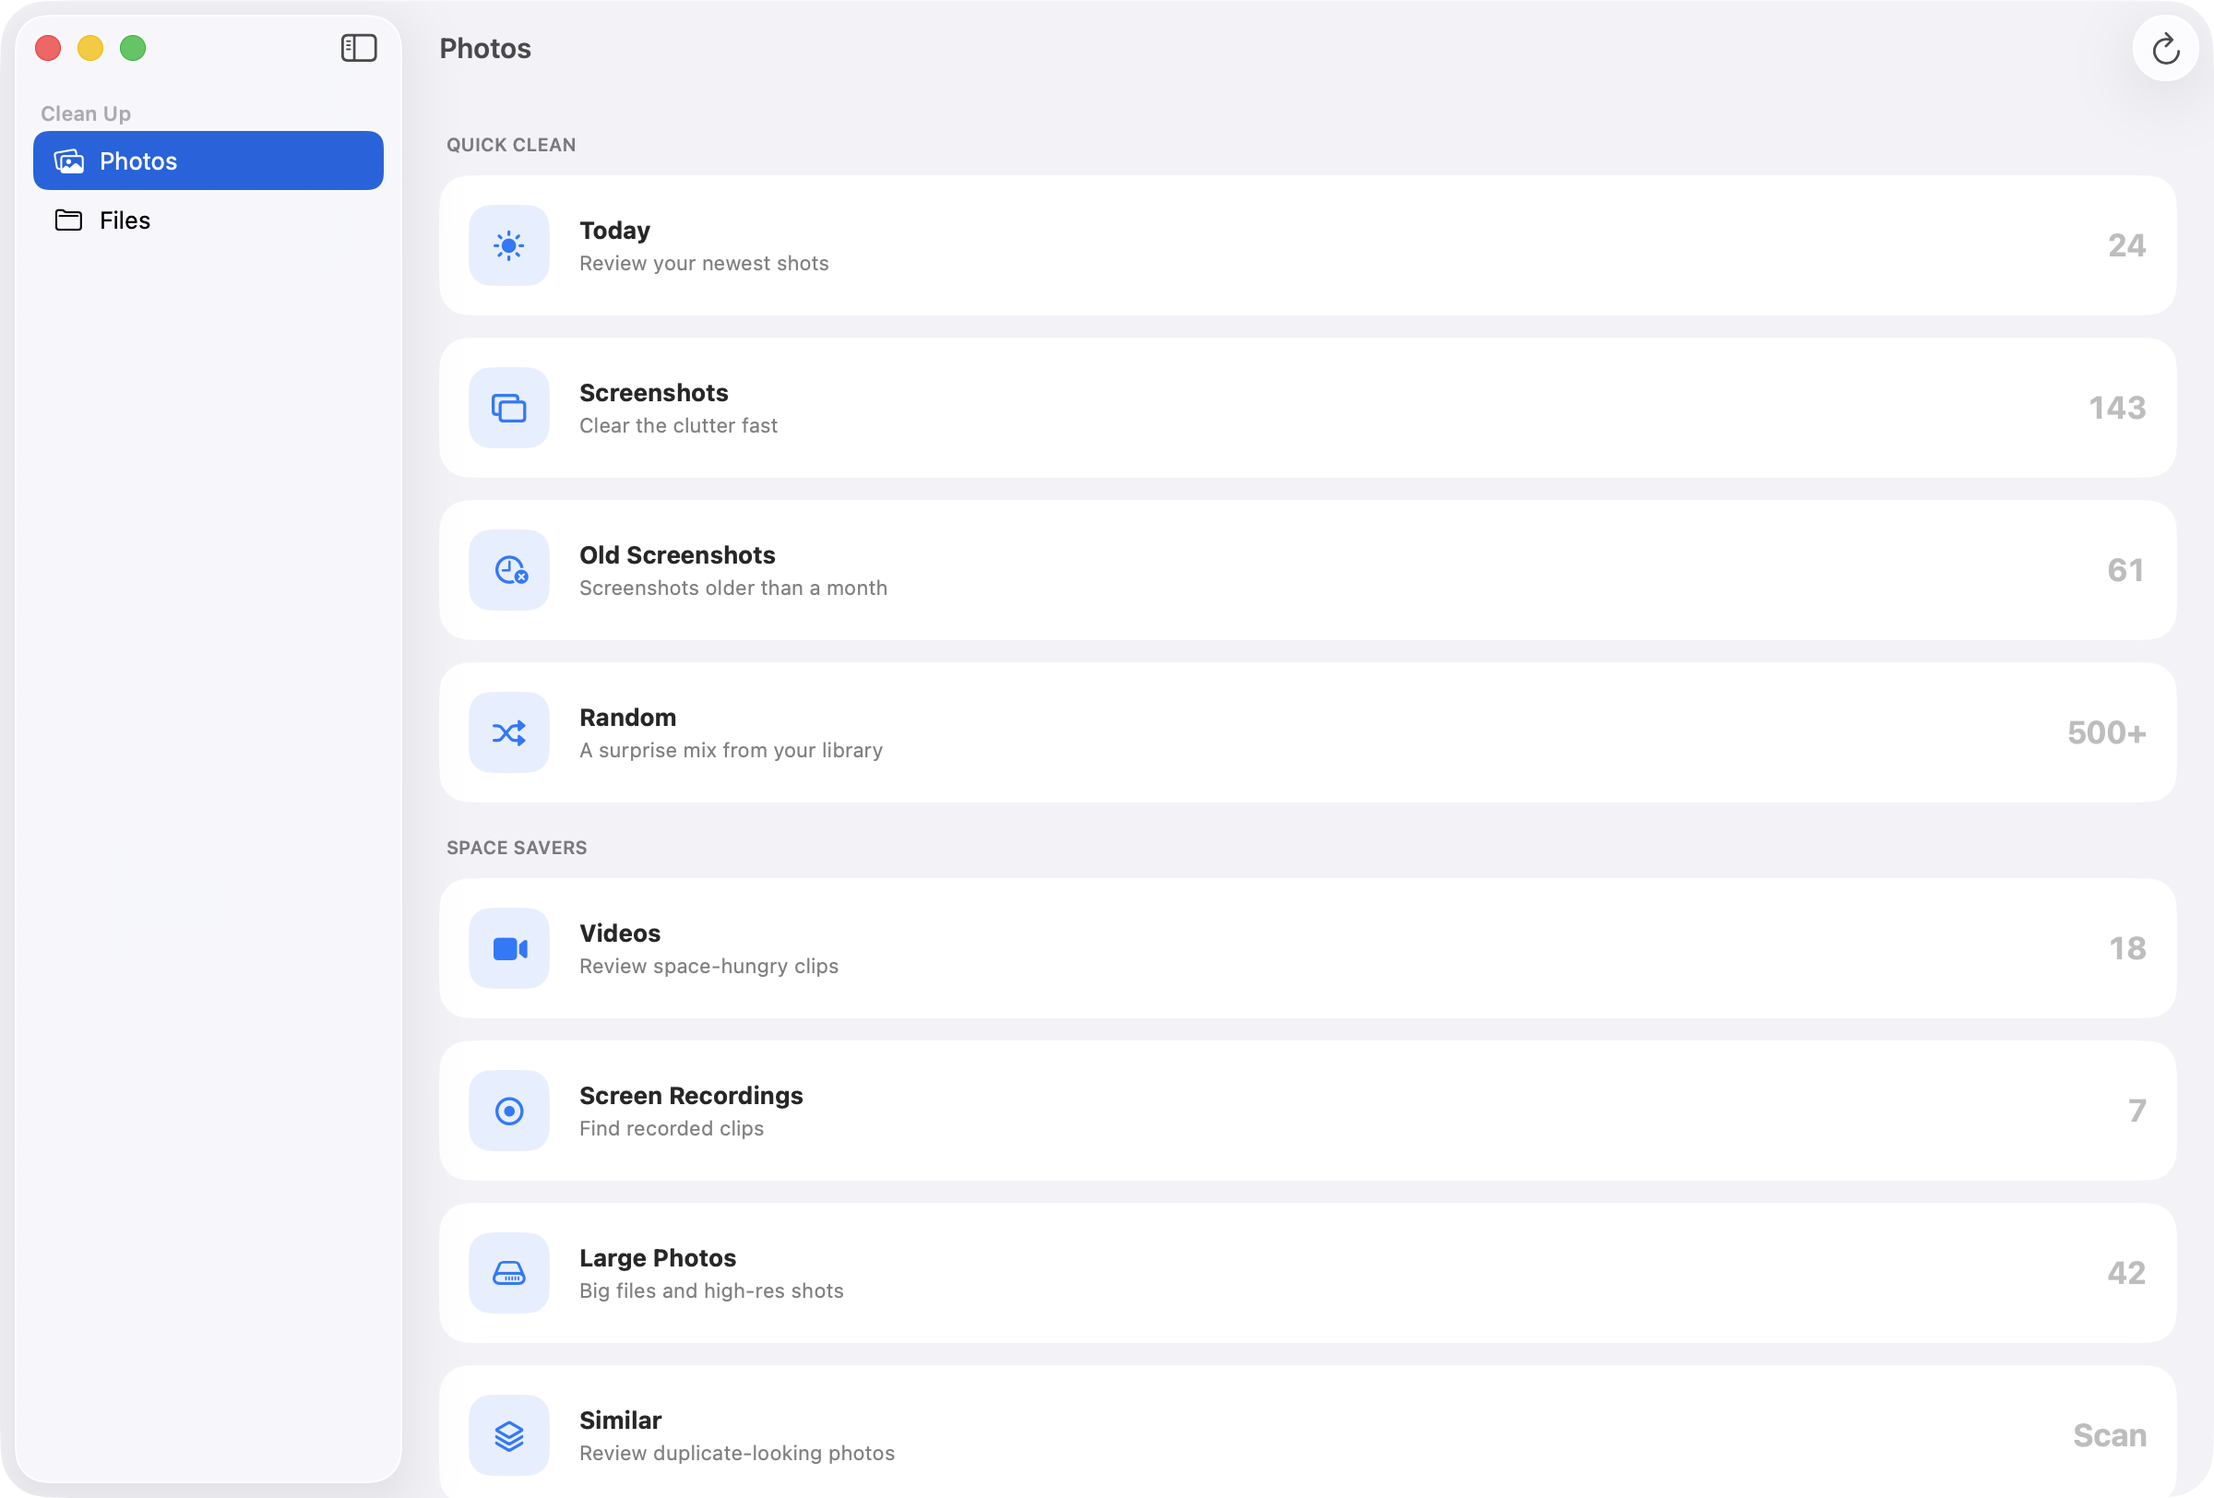
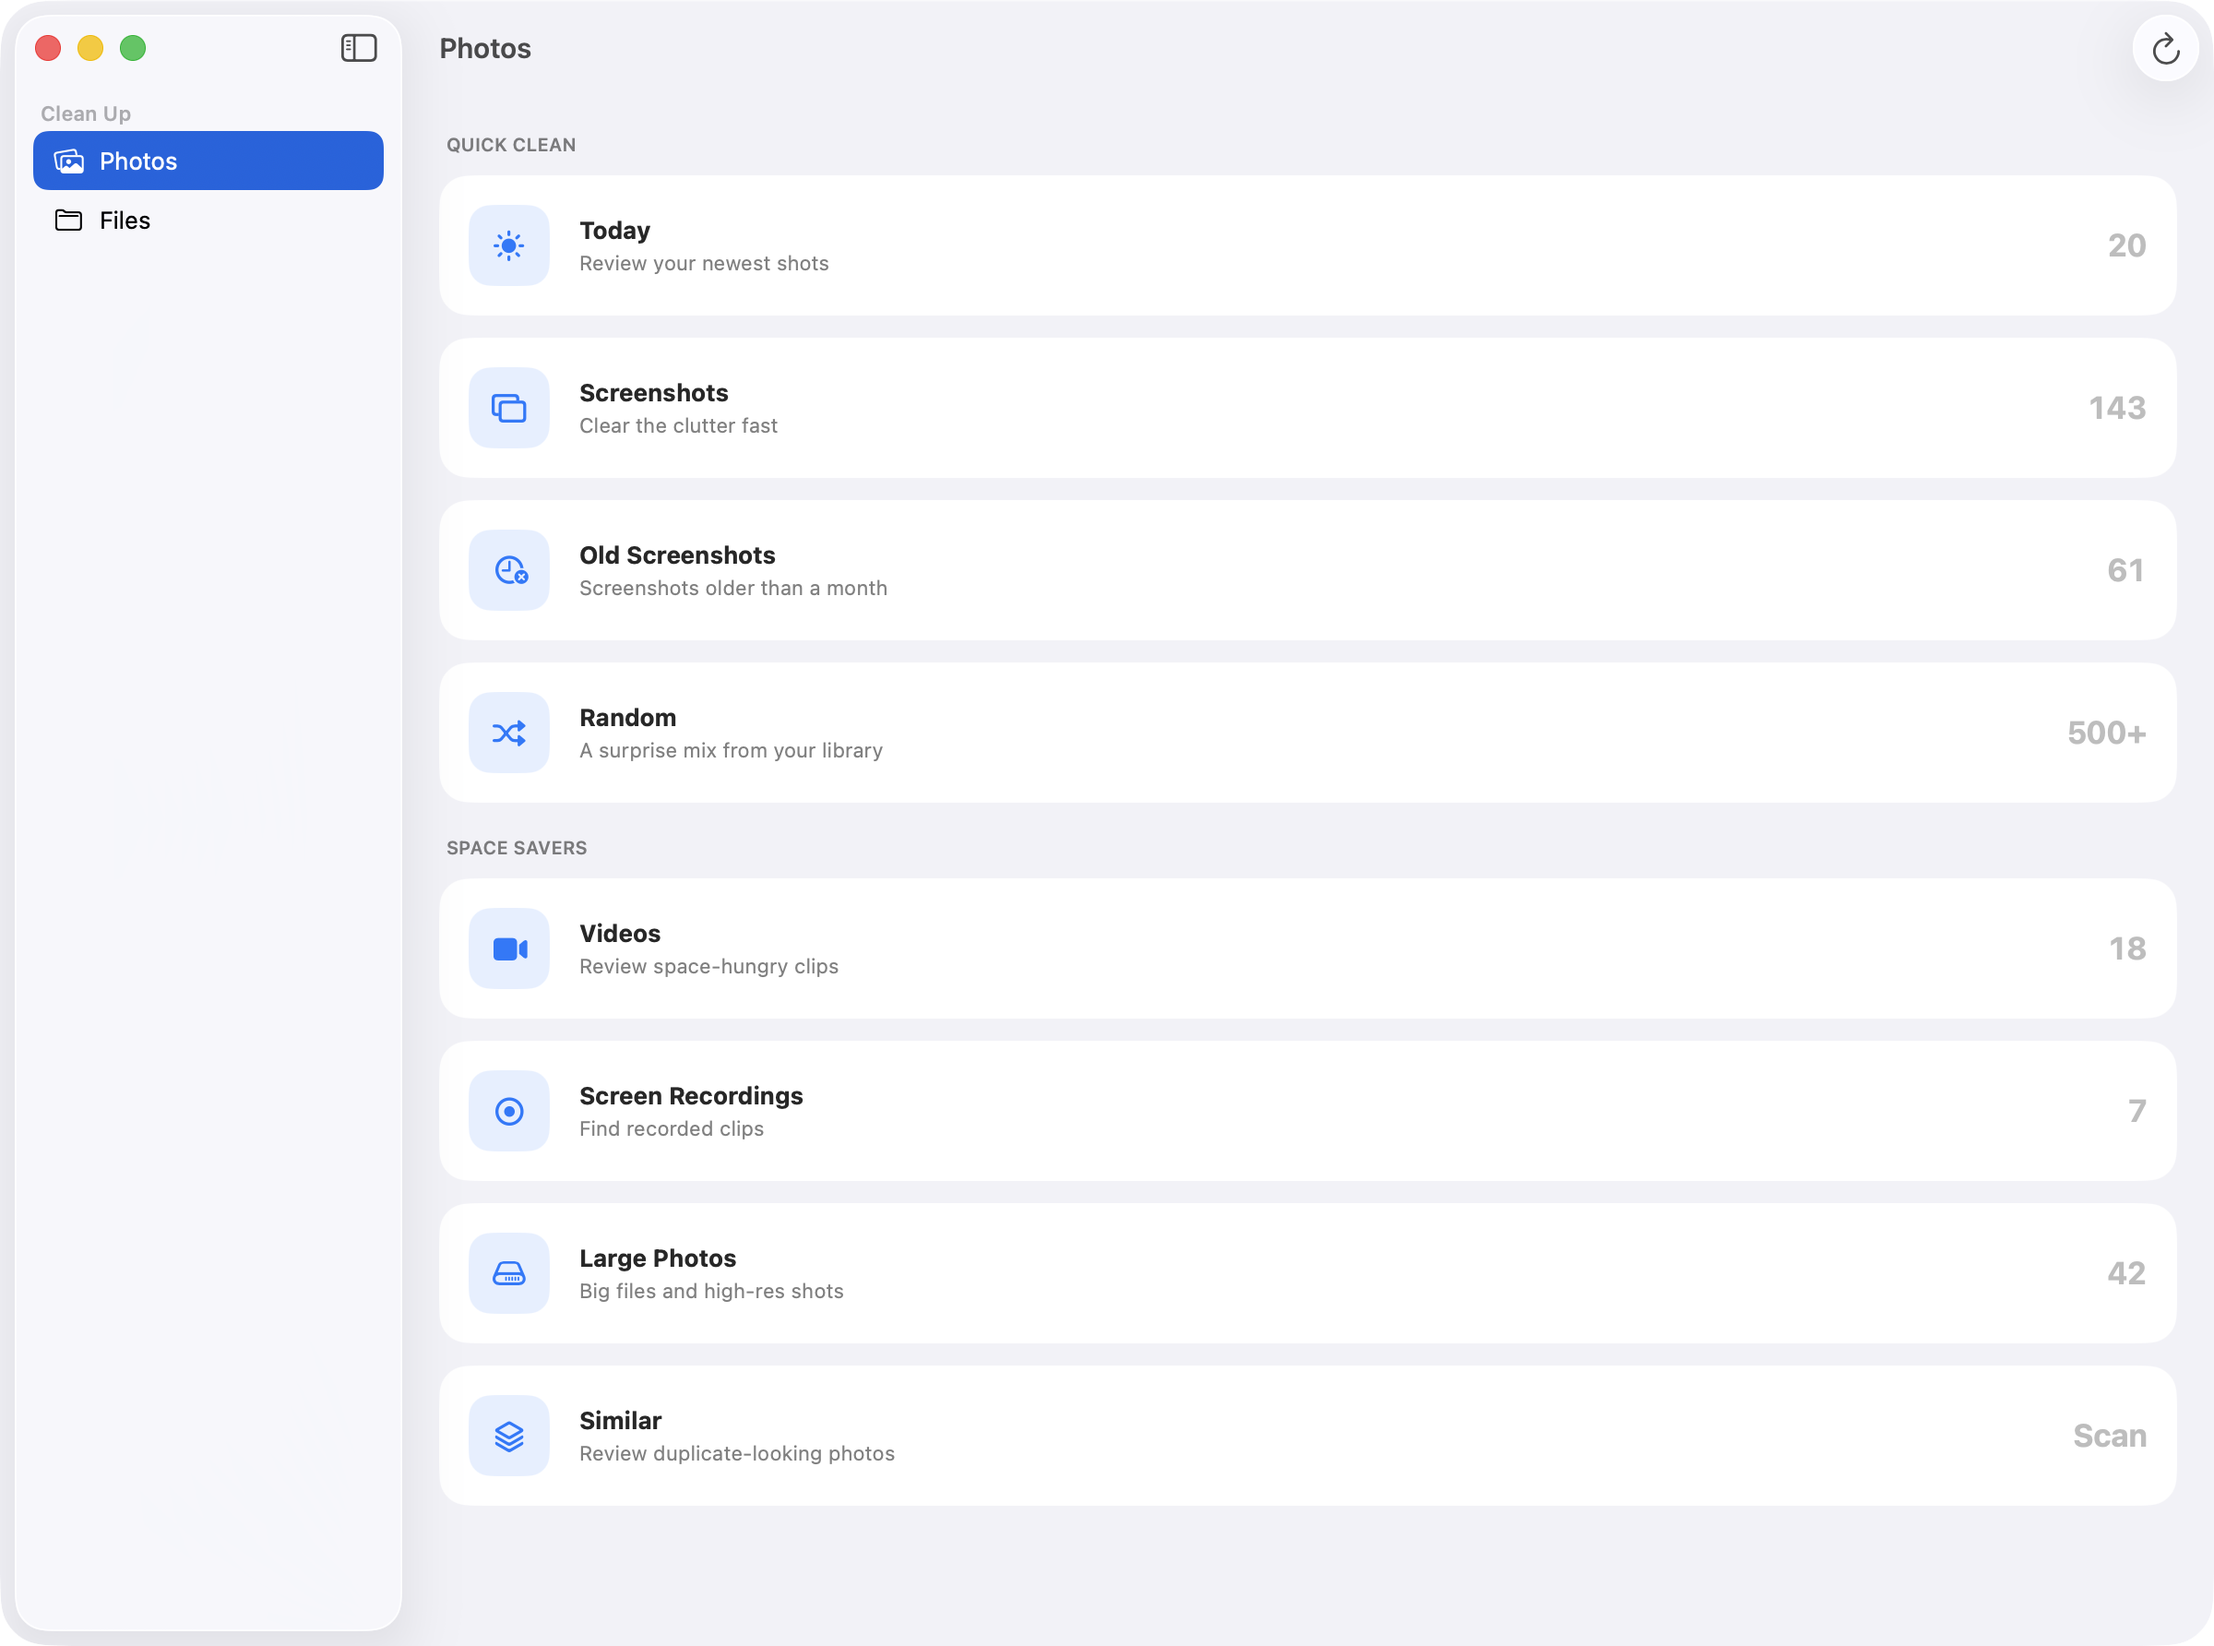
Fix Mac App Store screenshots: uncropped home hero + consistent counts
Trim the demo home to its two primary sections and raise the shared demo
window height so the home window shows all 8 categories with a clean
bottom edge instead of clipping the last row. Align the demo Today count
(20) with the review screen's "7 of 20". Re-captured all four Mac shots.
(DEBUG-only demo view; does not affect the shipping build.)

diff --git a/SnipSnaps/Views/Marketing/MacScreenshotDemoView.swift b/SnipSnaps/Views/Marketing/MacScreenshotDemoView.swift
@@ -49,9 +49,11 @@ struct MacScreenshotDemoView: View {
     // doesn't inherit the machine's Dark Mode. Set SNIPSNAPS_SCREENSHOT_APPEARANCE
     // to `dark` to shoot Dark-Mode shots; defaults to Light.
     .preferredColorScheme(forcedColorScheme)
-    // Pin the window to a fixed 16:10-ish size so every capture is identical and
-    // composites cleanly onto the 2880×1800 canvas.
-    .frame(width: 1200, height: 760)
+    // Pin the window to a fixed size so every capture is identical and composites
+    // cleanly onto the 2880×1800 canvas. Height fits the home hero's two sections
+    // (8 category rows) with a clean bottom margin; the photo-review and files
+    // screens center/top their content, so the extra height reads as breathing room.
+    .frame(width: 1200, height: 840)
     // Make the window key/active so the capture shows colored traffic lights and
     // a crisp title bar instead of the dimmed inactive-window chrome.
     .onAppear { NSApp.activate(ignoringOtherApps: true) }
@@ -85,7 +87,7 @@ private struct DemoHomeSection: Identifiable {
 private struct DemoPhotosHomeScreen: View {
   private let sections: [DemoHomeSection] = [
     DemoHomeSection(title: "Quick Clean", modes: [
-      DemoHomeMode(mode: .today, count: "24"),
+      DemoHomeMode(mode: .today, count: "20"),
       DemoHomeMode(mode: .screenshots, count: "143"),
       DemoHomeMode(mode: .oldScreenshots, count: "61"),
       DemoHomeMode(mode: .random, count: "500+"),
@@ -96,12 +98,9 @@ private struct DemoPhotosHomeScreen: View {
       DemoHomeMode(mode: .largePhotos, count: "42"),
       DemoHomeMode(mode: .similar, count: "Scan"),
     ]),
-    DemoHomeSection(title: "Library Finds", modes: [
-      DemoHomeMode(mode: .onThisDay, count: "88"),
-      DemoHomeMode(mode: .livePhotos, count: "33"),
-      DemoHomeMode(mode: .bursts, count: "12"),
-      DemoHomeMode(mode: .oldFavorites, count: "15"),
-    ]),
+    // The hero shows the two primary sections (8 categories). The window is a
+    // fixed height shared by all Mac shots, so a third section overflowed and
+    // clipped the last row; the full category list still scrolls in the app.
   ]
 
   var body: some View {
